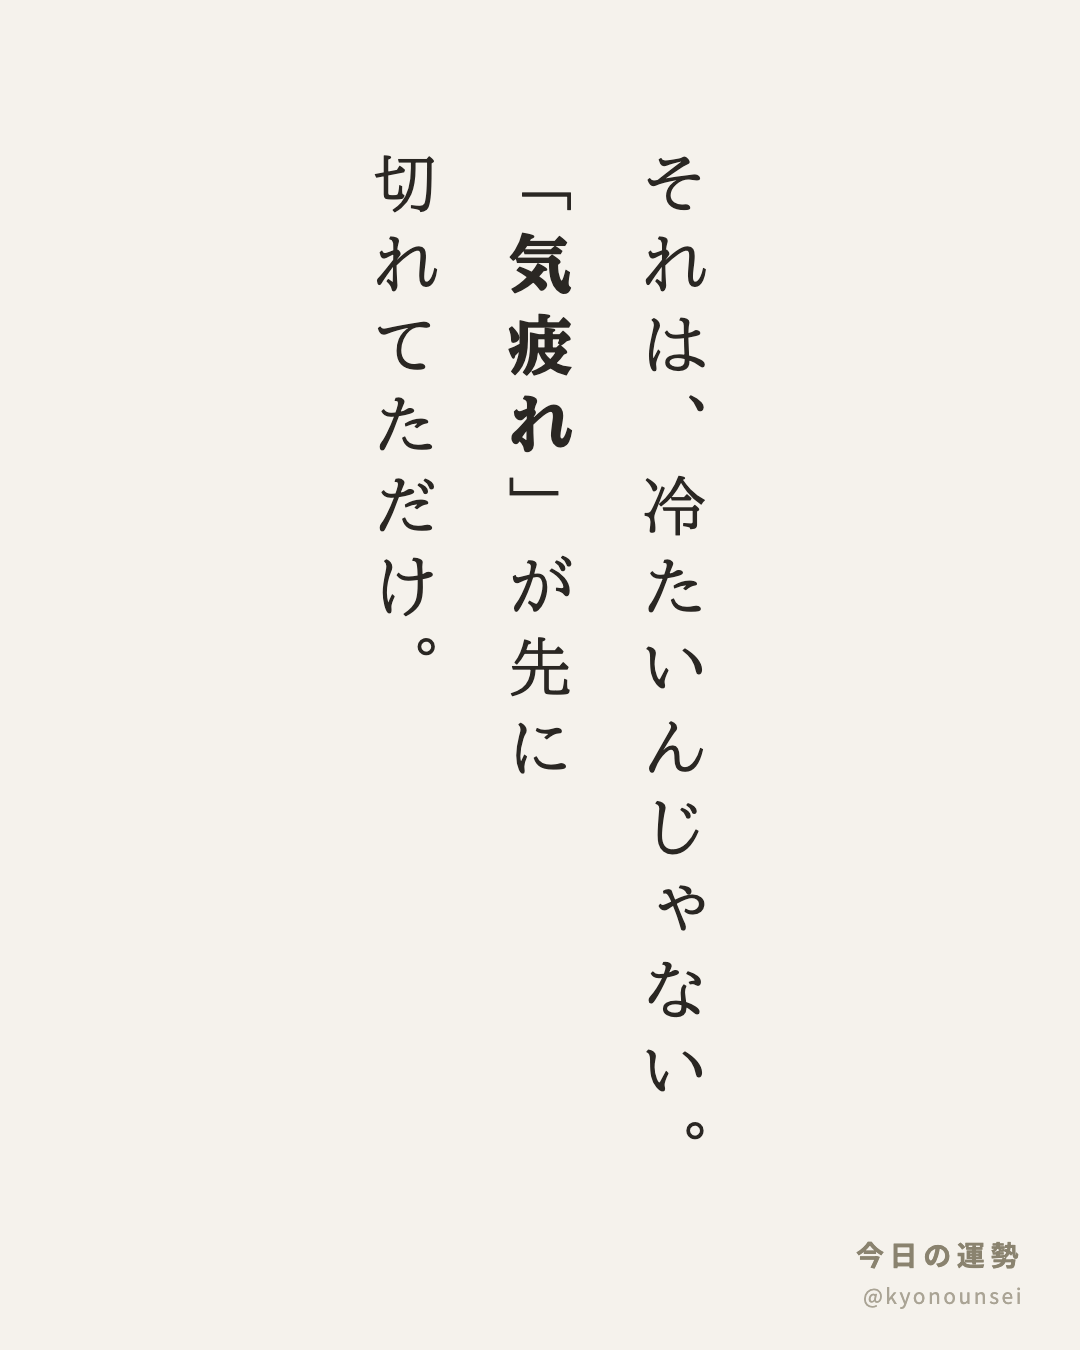
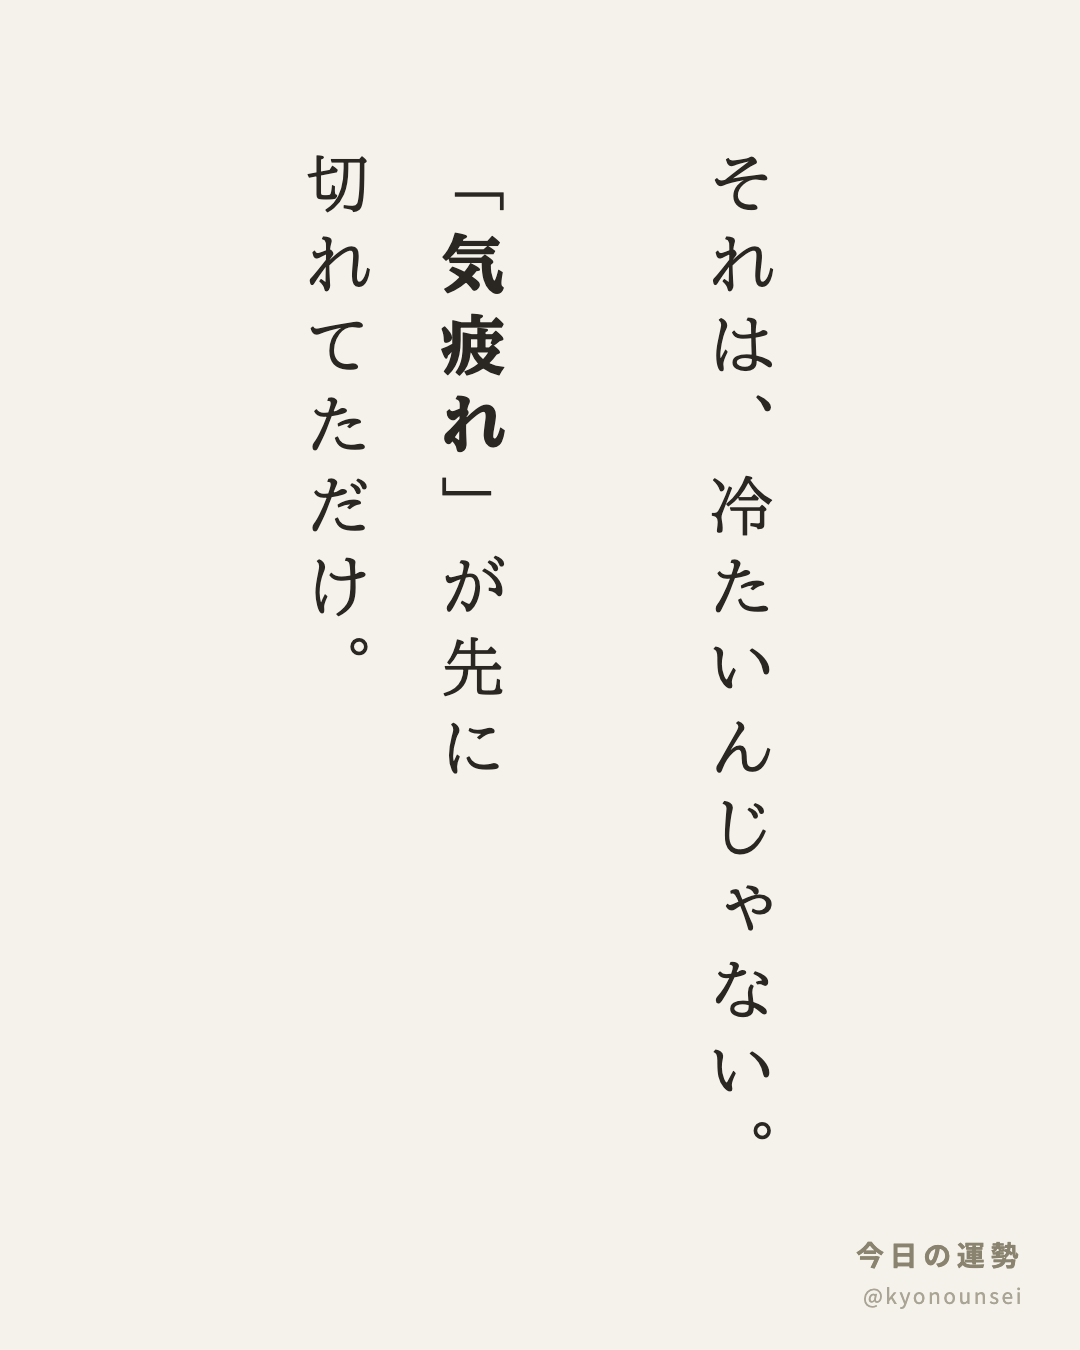
update drafts review: fix real gap spacing, resolve width overflow on 2 slides; add nandemo sample

diff --git a/drafts/index.html b/drafts/index.html
@@ -47,7 +47,7 @@
     <h2>ドタキャンされてホッとした人</h2>
     <span class="count">9枚</span>
   </div>
-  
+  <ul class="warn"><li>スライド7（width）: 実測1075px &gt; 上限1000px</li></ul>
   <div class="row">
     <img src="dotakyan/dotakyan_1.png" loading="lazy">
     <img src="dotakyan/dotakyan_2.png" loading="lazy">
@@ -58,6 +58,27 @@
     <img src="dotakyan/dotakyan_7.png" loading="lazy">
     <img src="dotakyan/dotakyan_8.png" loading="lazy">
     <img src="dotakyan/dotakyan_9.png" loading="lazy">
+  </div>
+</section>
+
+
+<section class="carousel-card">
+  <div class="card-head">
+    <span class="badge" style="background:#8a836f;">DRAFT</span>
+    <h2>「なんでもいい」と言う人</h2>
+    <span class="count">9枚</span>
+  </div>
+  <ul class="warn"><li>スライド4（width）: 実測1075px &gt; 上限1000px</li><li>スライド6（width）: 実測1008px &gt; 上限1000px</li><li>スライド7（width）: 実測1075px &gt; 上限1000px</li></ul>
+  <div class="row">
+    <img src="nandemo/nandemo_1.png" loading="lazy">
+    <img src="nandemo/nandemo_2.png" loading="lazy">
+    <img src="nandemo/nandemo_3.png" loading="lazy">
+    <img src="nandemo/nandemo_4.png" loading="lazy">
+    <img src="nandemo/nandemo_5.png" loading="lazy">
+    <img src="nandemo/nandemo_6.png" loading="lazy">
+    <img src="nandemo/nandemo_7.png" loading="lazy">
+    <img src="nandemo/nandemo_8.png" loading="lazy">
+    <img src="nandemo/nandemo_9.png" loading="lazy">
   </div>
 </section>
 
